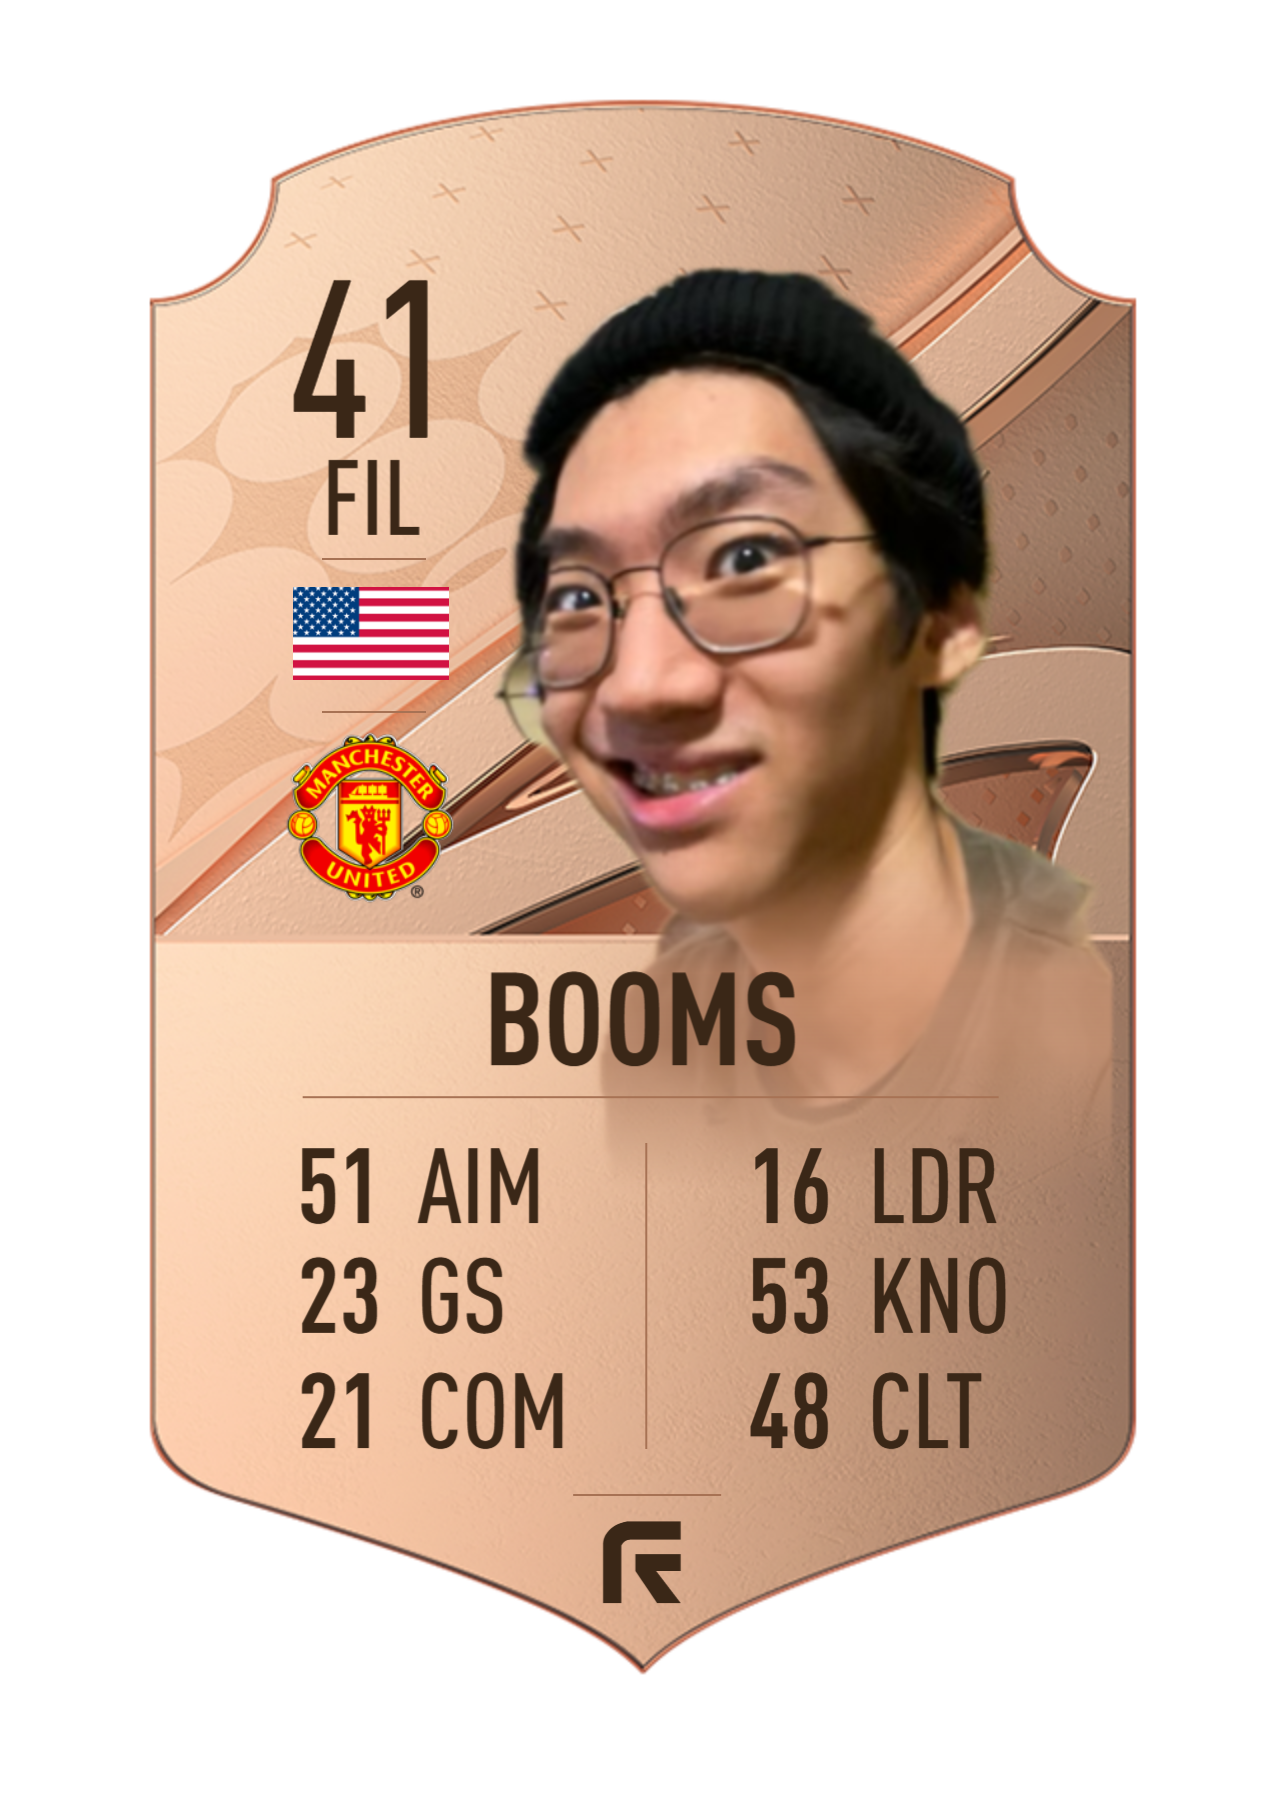
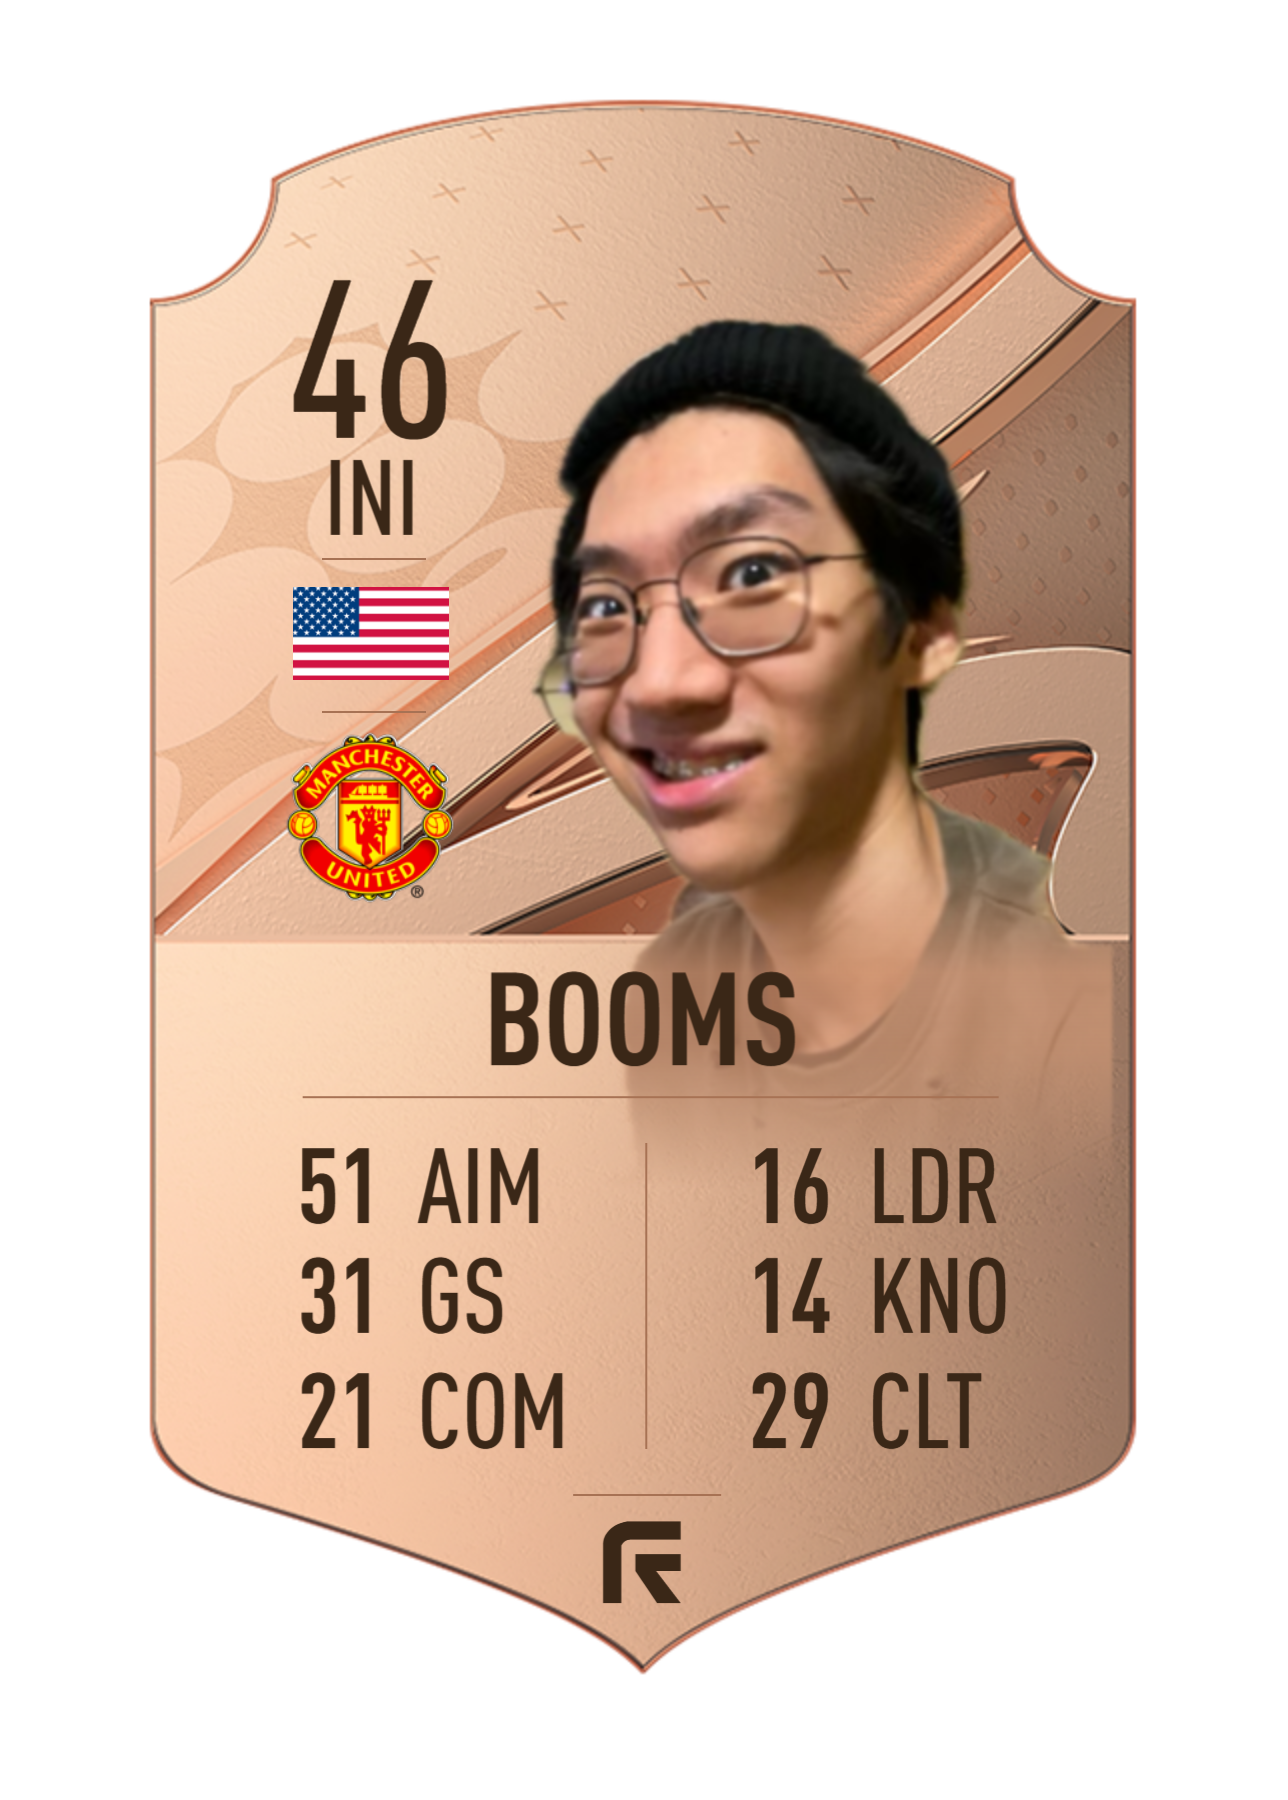
updates

diff --git a/script.js b/script.js
@@ -110,128 +110,128 @@ const players = {
     {
       name: `JW`,
       image: "./images/JW.png",
-      score: 1.7,
-      change: 0.5,
-      description: "A god tier performance. Did his brother get on his pc?"
+      score: 1.8,
+      change: -.1,
+      description: "Came to visit me for food"
     },
     {
       name: `Ethan`,
       image: "./images/Ethan.png",
-      score: 1.9,
+      score: 2.4,
       change: -.5,
-      description: "Must have had negative synergy with JL."
+      description: "Neon ain't in his bag."
+    },
+    {
+      name: `Michael`,
+      image: "./images/michaelk14.png",
+      score: 2.5,
+      change: 0.8,
+      description: "Came to visit me to pose for this picture."
     },
     {
       name: `Dylan`,
       image: "./images/Dylan.png",
-      score: 2.1,
-      change: .3,
-      description: "Allegedly a dwarf lover?!?!"
+      score: 2.7,
+      change: -.6,
+      description: "Had to change username to escape dwarf lover allegations. Still a dwarf lover."
     },
     {
       name: `Jared`,
       image: "./images/Jared.png",
       score: 3.1,
-      change: -.3,
-      description: "Had to suddenly leave. I hope everything is okay. I'll give you a one week no gay description pass."
-    },
-    {
-      name: `Dylan's Son`,
-      image: "./images/Mike.png",
-      score: 3.3,
-      change: 0.1,
-      description: "Played well despite bad circumstances."
+      change: 0,
+      description: "Has not been playing due to job search. Good luck pookie. I'm still waiting for that picture btw."
     },
     {
       name: `Eugene`,
       image: "./images/Eugene.png",
-      score: 3.7,
-      change: -1.2,
-      description: "."
+      score: 3.4,
+      change: .3,
+      description: "Brim lineups has been boosting his performance as well as the knowledge stat."
     },
     {
       name: `Hwang`,
       image: "./images/Hwang.png",
-      score: 4.1,
-      change: 0.4,
-      description: "I'll play with you soon pookie."
+      score: 3.9,
+      change: 0.2,
+      description: "This guy is jumping up and down because he's finally not a silver card anymore."
     },
     {
       name: `Matt`,
       image: "./images/Matt.png",
-      score: 4.2,
-      change: 0.7,
-      description: "Couldnt make it to boston but made a solid performance."
+      score: 4.8,
+      change: -.6,
+      description: "Tried to do a shahats sova cosplay. Did not work out too well."
     },
     {
       name: `Brian Ju`,
       image: "./images/Brian.png",
-      score: 5.2,
-      change: 0,
-      description: "Was too busy settin up his 401k. Give me your account details and I'll help you."
+      score: 5.8,
+      change: -.6,
+      description: "Not being able to play consistently has affected performance."
     },
     {
       name: `Ron`,
-      image: "./images/Ron.png",
-      score: 6.5,
-      change: .6,
-      description: "Must have been daydreaming about going to ac while playing val. Surely."
+      image: "./images/Ronen.png",
+      score: 6.3,
+      change: .2,
+      description: "Is deadlock his only bag?"
     },
     {
       name: `Schatz "Mr Unclutchable"`,
-      image: "./images/Schatz.png",
+      image: "./images/Shahats.png",
       score: 6.8,
-      change: -.3,
-      description: "A very solid performance. Can't guard JW tho."
+      change: 0,
+      description: "Getting ready for the 999 challenge. Nine dudes, nine finishes, nine minutes."
     },
     {
       name: `Noah`,
       image: "./images/Noah.png",
       score: 7.8,
-      change: -0.5,
-      description: "Unc was almost put into retirement from val."
+      change: 0,
+      description: "Great comms even while not playing."
     },
     {
       name: `Josh`,
       image: "./images/Josh.png",
       score: 8.1,
       change: 0,
-      description: "Busy making plans for friday."
+      description: "Coming for hwangs number one league spot."
+    },
+     {
+      name: `JBL`,
+      image: "./images/Booms.png",
+      score: 8.9,
+      change: 0.9,
+      description: "A certified troll in every game."
     },
     {
       name: `JL`,
       image: "./images/JL.png",
       score: 9.1,
-      change: -.8,
-      description: "Been watching MSI instead of practicing val. Take it from me, it shows."
+      change: 0,
+      description: "Embodiment of a chihuahua."
     },
     {
       name: `Jacob`,
       image: "./images/Jacob.png",
       score: 9.4,
       change: 0,
-      description: "Congrats :)"
+      description: "MIA"
     },
     {
       name: `Dank`,
       image: "./images/Dank.png",
       score: 9.5,
       change: 0,
-      description: "The anvil on which war is forged upon."
-    },
-    {
-      name: `JBL`,
-      image: "./images/Booms.png",
-      score: 9.8,
-      change: 0,
-      description: "My twin."
+      description: "Top 3000 merge tactics player in the world."
     },
     {
       name: `Junsoo`,
       image: "./images/Junsoo.png",
       score: "10.0",
       change: 0,
-      description: "I worked so hard making animations to hype his entrance just for this guy to shit the bed."
+      description: "I'm keeping his animation up."
     },
   ]
 };
